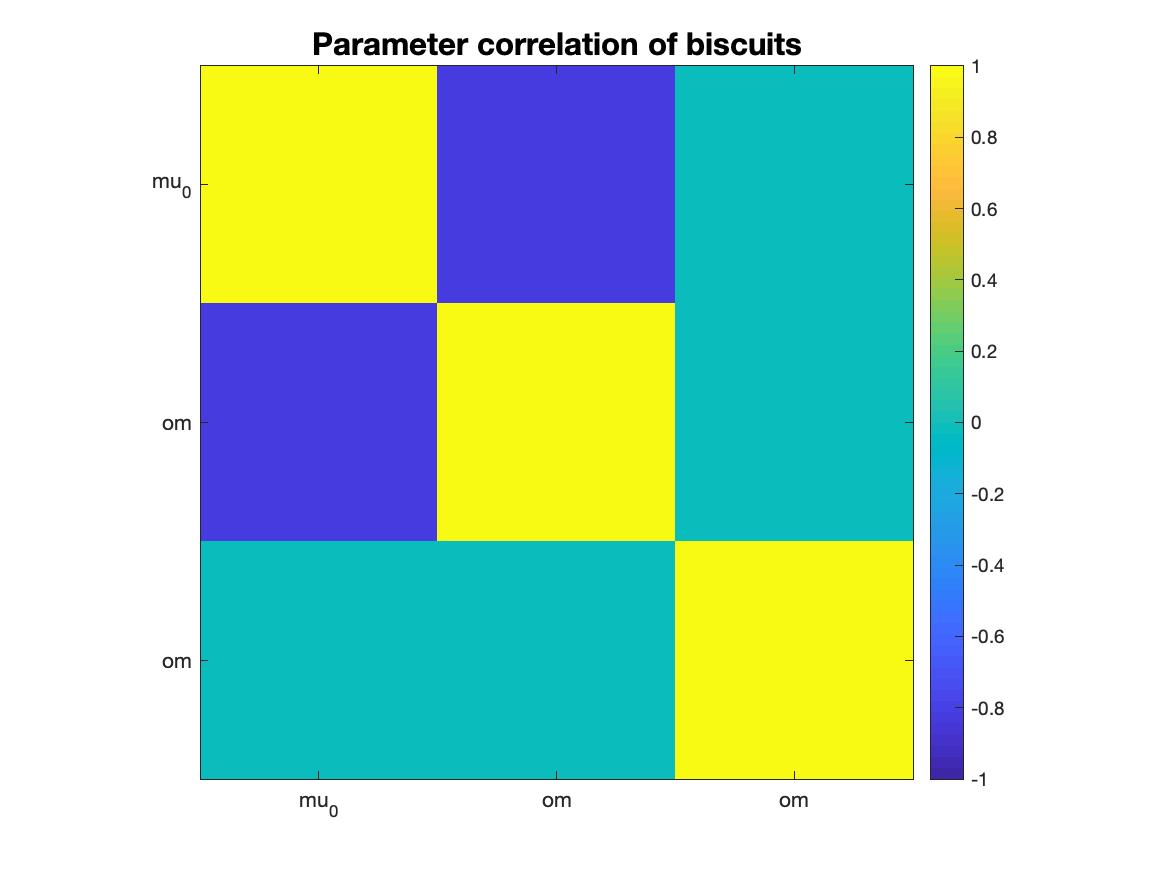
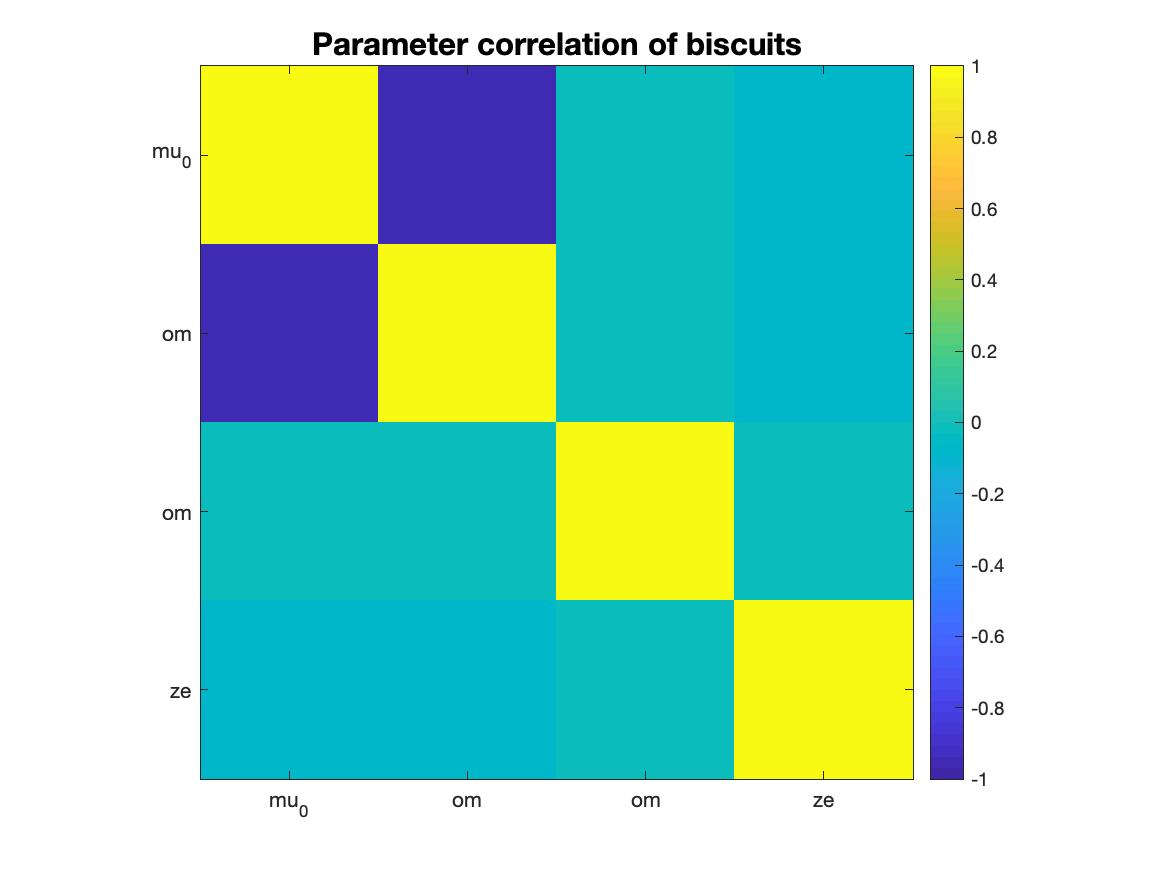
new graphs

diff --git a/matlab/HGF/tapas_unitsq_sgm_config.m b/matlab/HGF/tapas_unitsq_sgm_config.m
@@ -48,7 +48,7 @@ c.model = 'tapas_unitsq_sgm';
 
 % Zeta
 c.logzemu = log(48);
-c.logzesa = 0;  %1
+c.logzesa = 1;  %1
 
 % Gather prior settings in vectors
 c.priormus = [
